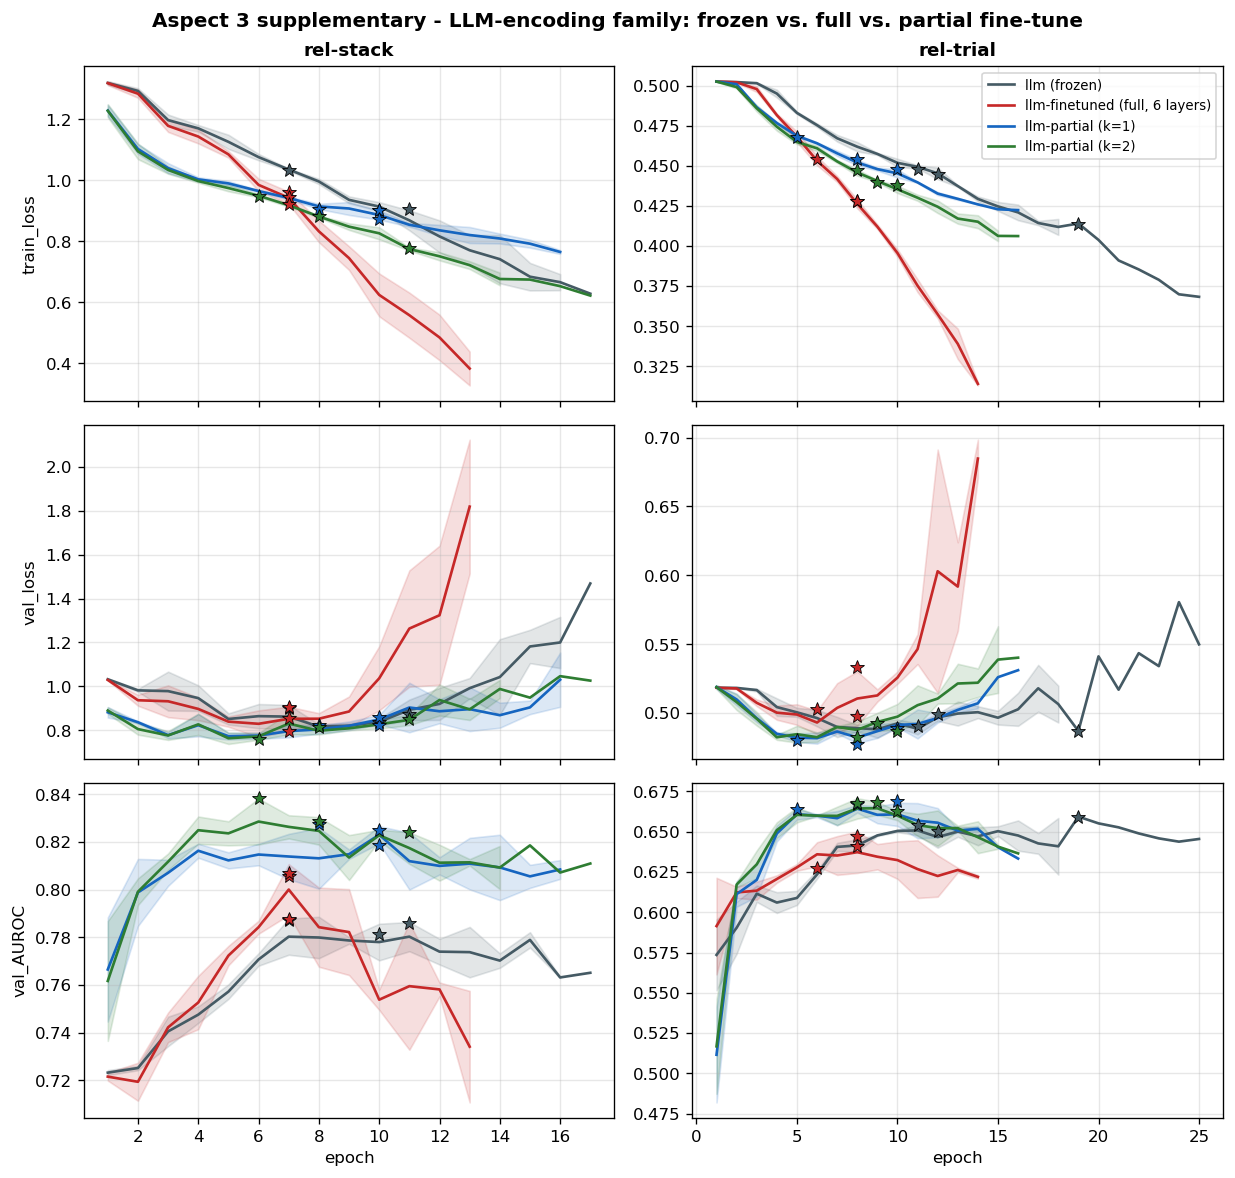
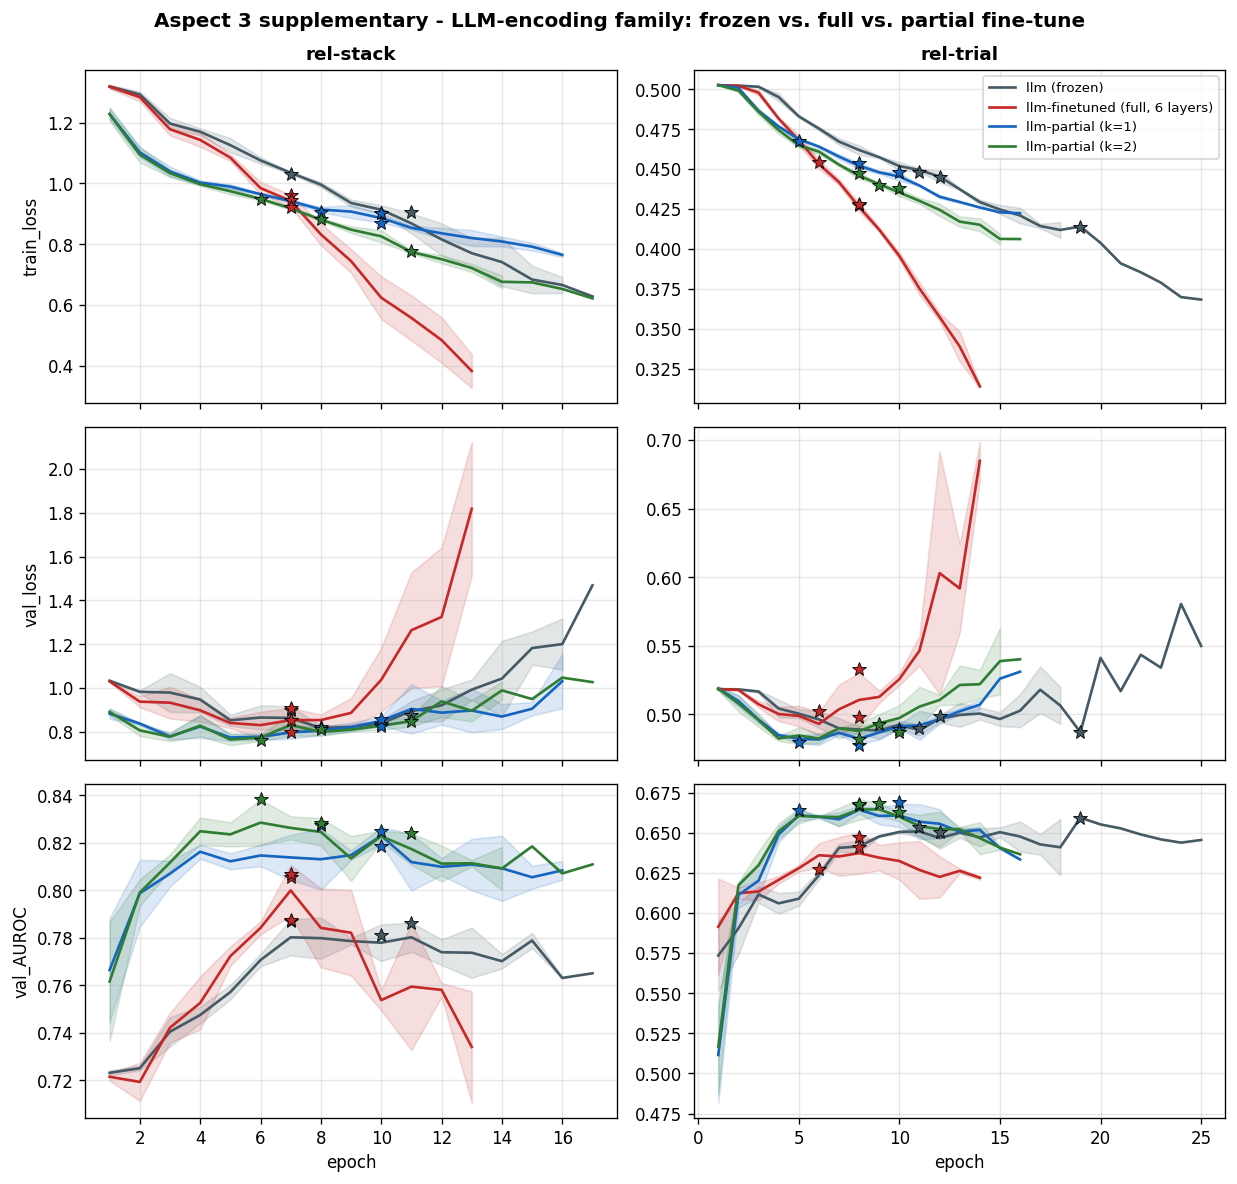
new loss curves plots

diff --git a/hw3/report.md b/hw3/report.md
@@ -235,8 +235,17 @@ This subsection reports a follow-up investigation beyond the assignment's Aspect
 | 28 | - | 0.6844 ± .0080 |
 | 22 / 30 (full, no sharing) | 0.8729 ± .0017 | 0.6868 ± .0050 |
 
-![Aspect 2 supplementary loss curves](artifacts/loss_curves_A2_sage_basis.png)
-*Figure 7: a representative subset of basis counts per dataset (extremes plus the sweet-spot region), mean ± std over 3 seeds, star = restored best epoch.*
+![rel-stack train/val loss, all basis counts](artifacts/loss_curves_A2_sage_basis_relstack_loss.png)
+*Figure 7: rel-stack, train/val loss for every swept basis count, mean over 3 seeds.*
+
+![rel-stack val AUROC, all basis counts](artifacts/loss_curves_A2_sage_basis_relstack_auroc.png)
+*Figure 8: rel-stack, validation AUROC for every swept basis count, mean over 3 seeds, star = restored best epoch.*
+
+![rel-trial train/val loss, all basis counts](artifacts/loss_curves_A2_sage_basis_reltrial_loss.png)
+*Figure 9: rel-trial, train/val loss for every swept basis count, mean over 3 seeds.*
+
+![rel-trial val AUROC, all basis counts](artifacts/loss_curves_A2_sage_basis_reltrial_auroc.png)
+*Figure 10: rel-trial, validation AUROC for every swept basis count, mean over 3 seeds, star = restored best epoch.*
 
 **Convergence.** 51 of 54 (num_bases, seed) runs converged before the epoch cap (21/24 rel-stack, 30/30 rel-trial); the 3 exceptions (rel-stack `num_bases=1` seeds 42 and 43, `num_bases=4` seed 43) were still improving slightly at epoch 30, a minor caveat given rel-stack's own spread across basis counts is only about 0.005. Eval-time neighbor-sampling noise (Section 2) measured at mean |diff| = 0.00003, max = 0.0002 across all 54 runs - consistent with the rest of this report.
 
@@ -257,7 +266,7 @@ In the heterogeneous setting, how does the initial node representation affect do
 ### 5.2 Model Architecture
 
 ![Aspect 3 architecture](artifacts/architecture_A3.png)
-*Figure 8: three swappable input encoders feeding an identical HGT backbone and head. Each encoder consumes a different view of the same row (its index only, its typed cell values, or its serialization to text); all three emit the same 128-d node vector.*
+*Figure 11: three swappable input encoders feeding an identical HGT backbone and head. Each encoder consumes a different view of the same row (its index only, its typed cell values, or its serialization to text); all three emit the same 128-d node vector.*
 
 All three variants share the exact same downstream model: two `HGTConv` layers (`heads=4`) followed by the same two-layer MLP head. Only the block that produces each node's initial 128-dimensional vector changes:
 
@@ -296,7 +305,7 @@ rel-stack and rel-trial, global protocol (Section 2), fan-out [6, 6] on the cach
 | llm | 0.6545 ± .0045 | 0.7489 | 3.23M |
 
 ![Aspect 3 loss curves](artifacts/loss_curves_A3_hpc.png)
-*Figure 9: all three strategies, per-epoch curves, mean ± std over 3 seeds.*
+*Figure 12: all three strategies, per-epoch curves, mean ± std over 3 seeds.*
 
 ### 5.6 Discussion
 
@@ -338,9 +347,9 @@ This subsection reports a follow-up investigation beyond the assignment's Aspect
 | rel-trial | column (reference) | **0.6769 ± .0022** | 0.7386 | 8.77M |
 
 ![Aspect 3 supplementary loss curves](artifacts/loss_curves_A3_llm_family.png)
-*Figure 10: frozen vs. full fine-tune vs. partial fine-tune (k=1, k=2), mean ± std over 3 seeds, star = restored best epoch.*
+*Figure 13: frozen vs. full fine-tune vs. partial fine-tune (k=1, k=2), mean ± std over 3 seeds, star = restored best epoch.*
 
-**Convergence.** All 12 partial-fine-tune runs converged cleanly before the epoch cap (best epochs ranging 5-11, ordinary early stopping, no run still improving at epoch 30) and the officially reported AUROC matched the logged curve value exactly for every run (mean and max |diff| = 0.0). The full fine-tune's overfitting is directly visible in Figure 10: its validation loss (red) drops briefly then rises sharply past its starred best epoch on both datasets, most dramatically on rel-trial, while both partial variants (blue, green) stay flat and stable well past their own best epochs - a visibly different failure mode, not just a different number.
+**Convergence.** All 12 partial-fine-tune runs converged cleanly before the epoch cap (best epochs ranging 5-11, ordinary early stopping, no run still improving at epoch 30) and the officially reported AUROC matched the logged curve value exactly for every run (mean and max |diff| = 0.0). The full fine-tune's overfitting is directly visible in Figure 13: its validation loss (red) drops briefly then rises sharply past its starred best epoch on both datasets, most dramatically on rel-trial, while both partial variants (blue, green) stay flat and stable well past their own best epochs - a visibly different failure mode, not just a different number.
 
 **The diagnosis holds up: partial fine-tuning plus more data beats both frozen and full fine-tuning, on both datasets.** On rel-stack, ordering is frozen (0.7849) < full-finetune (0.8000) < k=1 (0.8238) < k=2 (0.8303) < column (0.8402): k=2 closes 82% of the gap between frozen and column, versus full fine-tuning's 27%. On rel-trial, ordering is full-finetune (0.6388) < frozen (0.6545) < k=2 (0.6665) ≈ k=1 (0.6667) < column (0.6769): partial fine-tuning does not just improve on full fine-tuning, it reverses the regression entirely and closes about 55% of the frozen-to-column gap, while full fine-tuning had moved *away* from column. Restricting how many layers can adapt, combined with enough data that those layers do not just memorize a small repeated sample, is what full fine-tuning was missing on both datasets.
 
@@ -359,7 +368,7 @@ As we add layers, do node representations collapse toward each other (oversmooth
 ### 6.2 Model Architecture
 
 ![Aspect 4 architecture](artifacts/architecture_A4.png)
-*Figure 11: the depth-configurable GCN stack. The arrows carry the data at each step (`h^(0)` after `collapse()`, `h^(l)` between repeated layers, `h^(L)` into the head); the optional skip connection is shown looping the layer input around each `GCNConv`.*
+*Figure 14: the depth-configurable GCN stack. The arrows carry the data at each step (`h^(0)` after `collapse()`, `h^(l)` between repeated layers, `h^(L)` into the head); the optional skip connection is shown looping the layer input around each `GCNConv`.*
 
 A homogeneous operator (GCN was chosen because oversmoothing was first characterized in this model family): the same per-table `HeteroEncoder` as every other aspect, followed by Aspect 2's `collapse()` to merge the typed graph into one node/edge set, then `L` stacked `GCNConv` layers (`L` in `{1,2,3,4,6,8}`), then the same MLP head. Each layer computes `h = relu(conv(h_prev))` in the baseline, or `h = relu(h_prev + conv(h_prev))` in the skip variant - a residual connection carrying the previous layer's representation forward.
 
@@ -402,13 +411,13 @@ Reading the two smoothing columns: `cos_sim` is a mean pairwise cosine similarit
 | 8 | 0.6757 | 0.6811 | 0.616 | 0.686 | 0.201 | 0.348 |
 
 ![Aspect 4 loss curves - depths 1 and 2](artifacts/loss_curves_A4_depths1_2.png)
-*Figure 12: depths 1 and 2, solid = no-skip, dashed = skip.*
+*Figure 15: depths 1 and 2, solid = no-skip, dashed = skip.*
 
 ![Aspect 4 loss curves - depths 3 and 4](artifacts/loss_curves_A4_depths3_4.png)
-*Figure 13: depths 3 and 4, same layout.*
+*Figure 16: depths 3 and 4, same layout.*
 
 ![Aspect 4 loss curves - depths 6 and 8](artifacts/loss_curves_A4_depths6_8.png)
-*Figure 14: depths 6 and 8, same layout - the panel where the skip-vs-no-skip separation is clearest.*
+*Figure 17: depths 6 and 8, same layout - the panel where the skip-vs-no-skip separation is clearest.*
 
 ### 6.6 Discussion
 